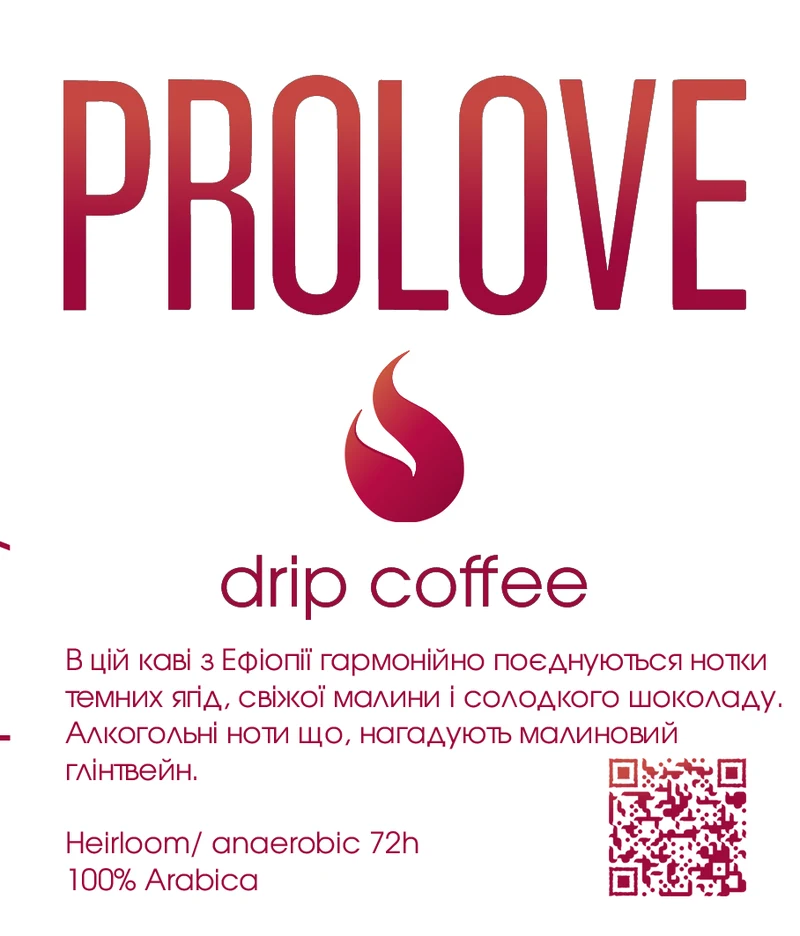
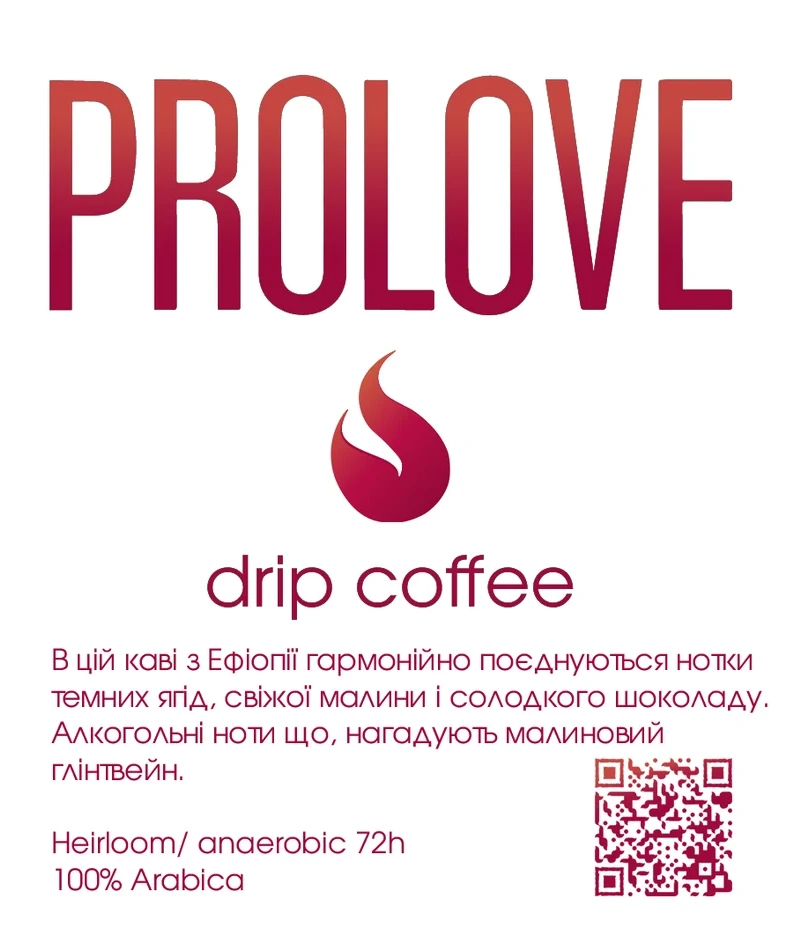
Дріп: на картці лише етикетка без надрукованої інструкції, цілком; без калькулятора порції (вага фіксована)
Claude-Session: https://claude.ai/code/session_01GS5rwWE64FMT4E5FHu3UV7

diff --git a/brew.html b/brew.html
@@ -8,18 +8,19 @@
 <meta name="description" content="Комікс-інструкції PROLOVE: дріп, а далі турка, гейзер і фільтр.">
 <meta property="og:image" content="img/drip-xmas.webp">
 <link rel="icon" href="img/favicon.png">
-<link rel="stylesheet" href="base.css?v=mwguvrl9">
-<link rel="stylesheet" href="nav.css?v=mwguvrl9">
-<script src="nav.js?v=mwguvrl9"></script>
+<link rel="stylesheet" href="base.css?v=mwgv2y8s">
+<link rel="stylesheet" href="nav.css?v=mwgv2y8s">
+<script src="nav.js?v=mwgv2y8s"></script>
 
-<link rel="stylesheet" href="drip.css?v=mwguvrl9">
+<link rel="stylesheet" href="drip.css?v=mwgv2y8s">
 <style>
 .hub{display:grid;grid-template-columns:repeat(2,minmax(0,1fr));gap:14px}
 .hub a{text-decoration:none;color:var(--ink)}
 .hub .pnl .art{display:flex;align-items:center;justify-content:center;overflow:hidden}
 /* розмір фото задано явно — не залежить від підтримки aspect-ratio у старих iPhone */
-.hub .pnl img{width:100%;max-width:100%;height:min(56vw,300px);object-fit:cover;display:block}
-@media (min-width:721px){.hub .pnl img{height:220px}}
+/* етикетка дріпа цілком, без обрізання */
+.hub .pnl .art{background:#fff;aspect-ratio:auto;height:auto;padding:10px 0}
+.hub .pnl img{display:block;width:auto;max-width:100%;height:auto;max-height:min(70vw,340px);margin:0 auto;object-fit:contain}
 .hub>a,.hub>article{min-width:0;display:block}
 .tipf{margin:0 0 28px}.mhint{background:var(--gold)}.mhint .btn{display:inline-block;text-decoration:none;margin-top:4px}.tipf .cap{padding-left:46px}
 .soon .art{min-height:min(56vw,300px);font-family:var(--head);font-size:clamp(30px,6vw,46px);text-transform:uppercase;color:var(--berry);text-align:center;line-height:1}
@@ -44,16 +45,16 @@
   </section>
   <aside class="pnl tipf"><span class="no">!</span><div class="cap"><h3>Фільтр: <em>200–300 мл за ~2 хв</em></h3><p>Стільки води має стекти крізь кавовий шар приблизно за 2 хвилини. Пролітає швидше — <b>вода холодна</b> або <b>помел завеликий</b>: нагрій воду сильніше або змели дрібніше.</p></div></aside>
   <section class="hub">
-    <a href="drip.html"><article class="pnl"><span class="no">1</span><div class="art"><img src="img/drip-xmas.webp" alt="Дріп PROLOVE Raspberry Mulled Wine"></div>
+    <a href="drip.html"><article class="pnl"><span class="no">1</span><div class="art"><img src="img/drip-xmas-label.webp" alt="Дріп PROLOVE Raspberry Mulled Wine" width="786" height="936"></div>
       <div class="cap"><h3>Дріп <em>за 3 хвилини</em></h3><p>Вдома з вагами і в дорозі без ваг. Гори, потяг, чого не робити — і таймер, який підкаже, коли доливати.</p></div></article></a>
     <article class="pnl soon"><span class="no">2</span><div class="art">Турка<br>Гейзер<br>Фільтр</div>
       <div class="cap"><h3>Скоро</h3><p>Малюємо наступні випуски. Хочеш якийсь раніше — напиши нам в Instagram.</p></div></article>
   </section>
   <div class="next"><a class="btn" href="index.html">До кави PROLOVE</a><a class="btn ghost" href="info.html">Інфо і контакти</a></div>
 </main>
-<script type="module" src="demo-shim.js?v=mwguvrl9"></script>
-<script type="module" src="calc.js?v=mwguvrl9"></script>
-<script type="module" src="filter.js?v=mwguvrl9"></script>
-<script type="module" src="brew.js?v=mwguvrl9"></script>
+<script type="module" src="demo-shim.js?v=mwgv2y8s"></script>
+<script type="module" src="calc.js?v=mwgv2y8s"></script>
+<script type="module" src="filter.js?v=mwgv2y8s"></script>
+<script type="module" src="brew.js?v=mwgv2y8s"></script>
 </body>
 </html>

diff --git a/drip.html b/drip.html
@@ -10,10 +10,10 @@
 <meta property="og:description" content="Комікс-інструкція і таймер: вдома, в горах, у потязі.">
 <meta property="og:image" content="img/drip-xmas.webp">
 <link rel="icon" href="img/favicon.png">
-<link rel="stylesheet" href="base.css?v=mwguvrl9">
-<link rel="stylesheet" href="nav.css?v=mwguvrl9">
-<script src="nav.js?v=mwguvrl9"></script>
-<link rel="stylesheet" href="drip.css?v=mwguvrl9">
+<link rel="stylesheet" href="base.css?v=mwgv2y8s">
+<link rel="stylesheet" href="nav.css?v=mwgv2y8s">
+<script src="nav.js?v=mwgv2y8s"></script>
+<link rel="stylesheet" href="drip.css?v=mwgv2y8s">
 </head>
 <body>
 <header class="nav">
@@ -29,7 +29,7 @@
       <span class="stamp">12 г · 95–98°C · 200 г</span>
     </div>
     <figure>
-      <img src="img/drip-xmas-label.webp" alt="Етикетка дріпа PROLOVE Raspberry Mulled Wine" width="800" height="1180">
+      <img src="img/drip-xmas-label.webp" alt="Етикетка дріпа PROLOVE Raspberry Mulled Wine" width="786" height="936">
       <figcaption><b>Raspberry Mulled Wine</b> — Ефіопія, анаеробна ферментація 72 год: темні ягоди, свіжа малина, солодкий шоколад і малиновий глінтвейн.</figcaption>
     </figure>
   </header>
@@ -41,8 +41,6 @@
     <div class="tl" id="tl" aria-hidden="true"></div>
     <div class="mode">Спосіб: <button class="chip" type="button" data-mode="home" aria-pressed="true">Вдома з вагами</button><button class="chip" type="button" data-mode="trip" aria-pressed="false">У дорозі без ваг</button></div>
   </section>
-
-  <section class="calc" data-calc data-coffee="12" aria-label="Калькулятор порції"></section>
 
   <div class="part"><h2>Частина 1. Вдома</h2><p>з вагами і секундоміром</p></div>
   <section class="page">
@@ -109,8 +107,7 @@
   <div class="next"><a class="btn" href="index.html">Більше кави PROLOVE</a><a class="btn ghost" href="index.html?w=ask">Підібрати каву</a><a class="btn ghost" href="https://instagram.com/prolove_coffee" target="_blank" rel="noopener">Instagram</a></div>
   <p class="foot">PROLOVE · Кава вогонь</p>
 </main>
-<script type="module" src="demo-shim.js?v=mwguvrl9"></script>
-<script type="module" src="drip.js?v=mwguvrl9"></script>
-<script type="module" src="calc.js?v=mwguvrl9"></script>
+<script type="module" src="demo-shim.js?v=mwgv2y8s"></script>
+<script type="module" src="drip.js?v=mwgv2y8s"></script>
 </body>
 </html>

diff --git a/index.html b/index.html
@@ -12,11 +12,11 @@
 <meta name="twitter:card" content="summary_large_image">
 <link rel="icon" href="img/favicon.png">
 <link rel="apple-touch-icon" href="img/apple-touch-icon.png">
-<link rel="stylesheet" href="base.css?v=mwguvrl9">
-<link rel="stylesheet" href="nav.css?v=mwguvrl9">
-<link rel="stylesheet" href="worlds.css?v=mwguvrl9">
-<link rel="stylesheet" href="app.css?v=mwguvrl9">
-<script src="nav.js?v=mwguvrl9"></script>
+<link rel="stylesheet" href="base.css?v=mwgv2y8s">
+<link rel="stylesheet" href="nav.css?v=mwgv2y8s">
+<link rel="stylesheet" href="worlds.css?v=mwgv2y8s">
+<link rel="stylesheet" href="app.css?v=mwgv2y8s">
+<script src="nav.js?v=mwgv2y8s"></script>
 </head>
 <body class="pl-app">
 <!-- Одне меню на всіх світах і сторінках -->
@@ -66,9 +66,9 @@
 </section>
 </main>
 
-<script type="module" src="demo-shim.js?v=mwguvrl9"></script>
-<script type="module" src="app.js?v=mwguvrl9"></script>
-<script type="module" src="ask.js?v=mwguvrl9"></script>
-<script type="module" src="feed.js?v=mwguvrl9"></script>
+<script type="module" src="demo-shim.js?v=mwgv2y8s"></script>
+<script type="module" src="app.js?v=mwgv2y8s"></script>
+<script type="module" src="ask.js?v=mwgv2y8s"></script>
+<script type="module" src="feed.js?v=mwgv2y8s"></script>
 </body>
 </html>

diff --git a/info.html b/info.html
@@ -8,9 +8,9 @@
 <meta name="description" content="Контакти, підтримка, як купити, умови для кав'ярень і документи PROLOVE.">
 <meta property="og:image" content="img/og.png">
 <link rel="icon" href="img/favicon.png">
-<link rel="stylesheet" href="base.css?v=mwguvrl9">
-<link rel="stylesheet" href="nav.css?v=mwguvrl9">
-<script src="nav.js?v=mwguvrl9"></script>
+<link rel="stylesheet" href="base.css?v=mwgv2y8s">
+<link rel="stylesheet" href="nav.css?v=mwgv2y8s">
+<script src="nav.js?v=mwgv2y8s"></script>
 
 <style>
 body{background:var(--bg);color:var(--ink);font-family:var(--body);margin:0}
@@ -88,7 +88,7 @@ ol.steps li+li{margin-top:4px}
 
   <p class="foot">PROLOVE · Кава вогонь</p>
 </main>
-<script type="module" src="demo-shim.js?v=mwguvrl9"></script>
-<script type="module" src="info.js?v=mwguvrl9"></script>
+<script type="module" src="demo-shim.js?v=mwgv2y8s"></script>
+<script type="module" src="info.js?v=mwgv2y8s"></script>
 </body>
 </html>

diff --git a/partners.html b/partners.html
@@ -6,9 +6,9 @@
 <meta name="theme-color" content="#000000">
 <title>PROLOVE — Партнерам</title>
 <link rel="icon" href="img/favicon.png">
-<link rel="stylesheet" href="base.css?v=mwguvrl9">
-<link rel="stylesheet" href="nav.css?v=mwguvrl9">
-<script src="nav.js?v=mwguvrl9"></script>
+<link rel="stylesheet" href="base.css?v=mwgv2y8s">
+<link rel="stylesheet" href="nav.css?v=mwgv2y8s">
+<script src="nav.js?v=mwgv2y8s"></script>
 
 <style>
 body{background:var(--bg);color:var(--ink);font-family:var(--body);margin:0;min-height:100vh}
@@ -92,7 +92,7 @@ input.code{font-size:28px;letter-spacing:.4em;text-align:center;font-weight:800}
   </section>
 </div>
 <div class="toast" id="toast" role="status"></div>
-<script type="module" src="demo-shim.js?v=mwguvrl9"></script>
-<script type="module" src="partners.js?v=mwguvrl9"></script>
+<script type="module" src="demo-shim.js?v=mwgv2y8s"></script>
+<script type="module" src="partners.js?v=mwgv2y8s"></script>
 </body>
 </html>

diff --git a/filter.js b/filter.js
@@ -2,7 +2,7 @@
 // Рекомендації: після вливання чекати 30 с на кожні 100 мл (цвітіння — не менше 30 с);
 // ціль злива: до 300 мл — ~2 хв, далі 1 хв на кожні 100 мл (400 мл — 4 хв, 500 мл — 5 хв).
 // У кінці — картка рецепту під скріншот (без брендування) зі своїми полями: помел, кава, температура…
-import { fmt, beep, wake, timeline } from './tmr.js?v=mwguvrl9';
+import { fmt, beep, wake, timeline } from './tmr.js?v=mwgv2y8s';
 
 // вливання — проста сітка 10…200 г з кроком 10
 const STEPS = Array.from({ length: 20 }, (_, i) => (i + 1) * 10);

diff --git a/drip.js b/drip.js
@@ -1,4 +1,4 @@
-import { fmt, beep, wake, timeline } from './tmr.js?v=mwguvrl9';
+import { fmt, beep, wake, timeline } from './tmr.js?v=mwgv2y8s';
 // DRIP-комікс: лінійні ілюстрації (як на етикетці дріпа) + таймер з підказками.
 const INK = '#141014', BERRY = '#B5123E', WATER = '#3FA9BE', COFFEE = '#4A1820', GOLD = '#F2B33D';
 const svg = (vb, body, label = '') => `<svg viewBox="${vb}" ${label ? `role="img" aria-label="${label}"` : 'aria-hidden="true"'}><g stroke="${INK}" stroke-width="3" stroke-linecap="round" stroke-linejoin="round" fill="none">${body}</g></svg>`;
